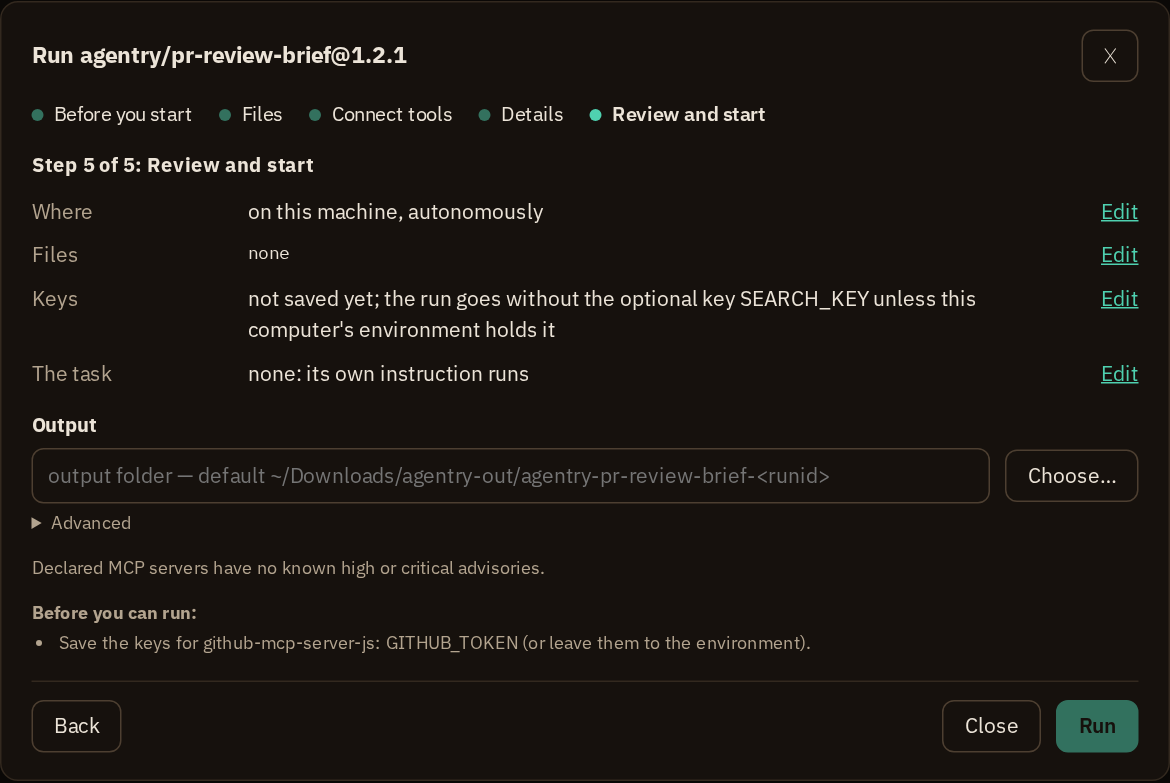
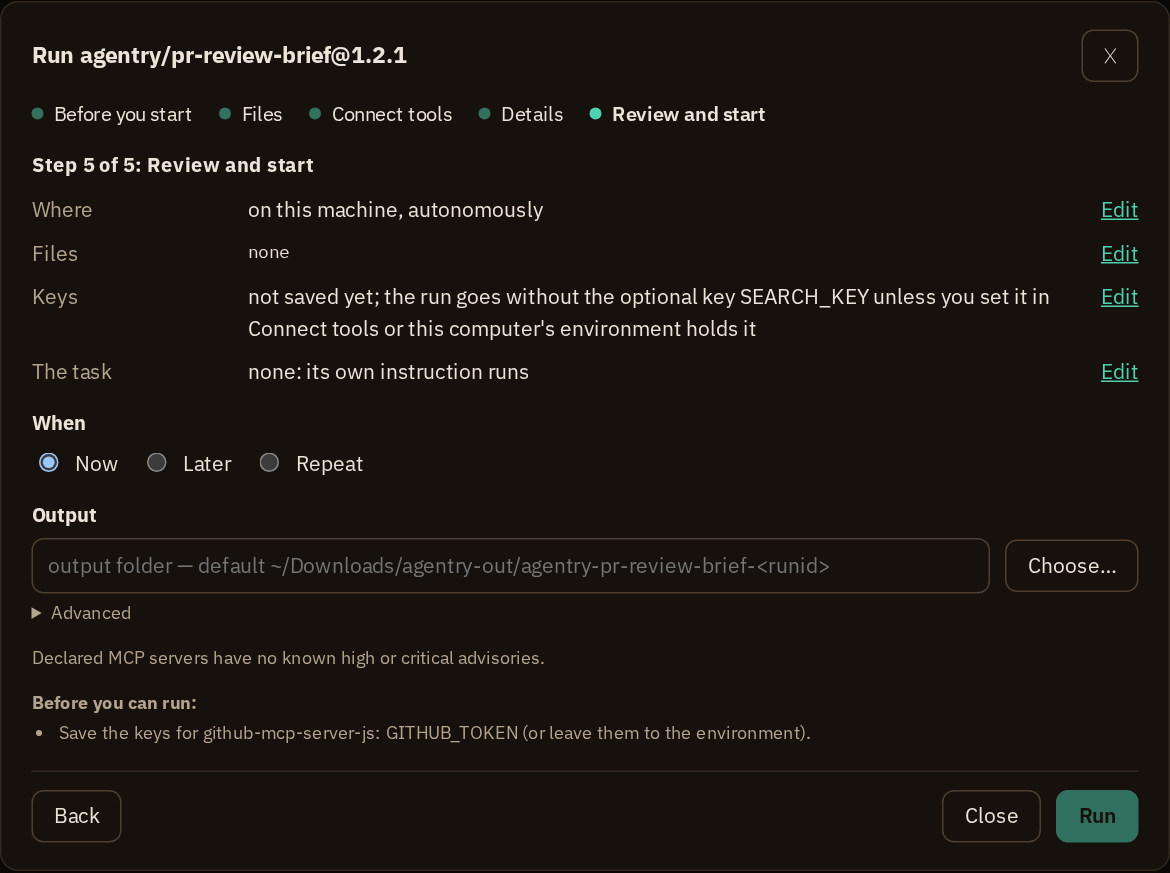
fix(run): offer the keys form for an optional key on this computer
A release run on this computer whose declared keys are all optional
showed an empty Keys section in Connect tools while no profile was saved:
the form opens by itself only for a required key, and Reconfigure… is
drawn only once a profile exists. The only way to give the run an
optional key was the environment.

Connect tools now offers Set keys… in that case (offerSetKeys), opening
the existing form: the key marked optional, a password field, the keep
toggle, stored in the release's profile (0700/0600) and removed when the
run completes unless kept, exactly as a required key is. The form gets
Cancel whenever nothing requires it, so an all-optional release is never
held by it. Review's sentence now says an optional key can be set in
Connect tools, not only taken from the environment. The Go side needed
no change: SaveProfile already stores any declared key and the run hands
every stored value to the engine.

Harness states runpanel-keys-optional and -saved show the offer and a
saved optional key.

Closes #784

diff --git a/frontend/src/pages/RunPanel.tsx b/frontend/src/pages/RunPanel.tsx
@@ -24,7 +24,7 @@ import * as ScheduleAPI from "../../wailsjs/go/main/ScheduleAPI";
 import { ChooseDirectory, ChooseFiles } from "../../wailsjs/go/main/App";
 import { knowledge, main, run, schedules, trust } from "../../wailsjs/go/models";
 import { Button, Card, DeclaredServersTable, ErrorBox, Notice, SignedBadge, Textarea, fmtBytes, shortDigest } from "../ui";
-import { STEP_LABEL, inAgentryByDefault, needList, setupSteps, vulnerableServerStep, whereFallback, type RunForm, type StepKey, requiredOf, goesWithoutSentence } from "../runSetup";
+import { STEP_LABEL, inAgentryByDefault, needList, setupSteps, vulnerableServerStep, whereFallback, type RunForm, type StepKey, requiredOf, goesWithoutSentence, offerSetKeys } from "../runSetup";
 import { followHostedChat, followHostedRunFound, startHostedRun, startLocalChat, startLocalRun, useChat, useHostedRun } from "../runs";
 import { HostedConnectAsk, HostedCredits, HostedSecretsAsk, HostedSecretsNote, HostedSignIns, HostedUnavailable, PublisherEarnsLine, SessionCredits, SessionUnavailable } from "./HostedRun";
 import { AgentMarkdown } from "../AgentMarkdown";
@@ -1212,6 +1212,19 @@ export default function RunPanel({
                       <Button onClick={() => { setFormOpen(true); setFormValues({}); }}>Reconfigure…</Button>
                     </div>
                   )}
+                  {/* Every key optional and none saved: the form does not open
+                      by itself, so it is offered, and an optional key is set
+                      here rather than only in the environment
+                      (agentry-desktop#784). */}
+                  {!formOpen && offerSetKeys(profile) && (
+                    <div className="row">
+                      <span className="muted small">
+                        No key saved for this release. The run can start without{" "}
+                        {profile.declaredSecrets.length === 1 ? "it" : "them"}, or set {profile.declaredSecrets.length === 1 ? "it" : "them"} now for this run.
+                      </span>
+                      <Button onClick={() => { setFormOpen(true); setFormValues({}); }}>Set keys…</Button>
+                    </div>
+                  )}
                   {formOpen && (
                     <Card>
                       <p className="muted small" style={{ marginTop: 0 }}>
@@ -1256,7 +1269,9 @@ export default function RunPanel({
                         </span>
                       </label>
                       <div className="row" style={{ justifyContent: "flex-end" }}>
-                        {profile.exists && <Button onClick={() => setFormOpen(false)} disabled={savingProfile}>Cancel</Button>}
+                        {(profile.exists || requiredNames.length === 0) && (
+                          <Button onClick={() => { setFormOpen(false); setFormValues({}); }} disabled={savingProfile}>Cancel</Button>
+                        )}
                         <Button variant="primary" onClick={saveProfile} disabled={savingProfile}>
                           {savingProfile ? "Saving…" : "Save keys"}
                         </Button>

diff --git a/frontend/harness/modals.tsx b/frontend/harness/modals.tsx
@@ -18,6 +18,11 @@
 //   #runpanel-keys         pr-review-brief's shape: keys unsaved, no intake —
 //                          the line above Run names the keys, Input files
 //                          collapsed (agentry-desktop#167)
+//   #runpanel-keys-optional  the same release with its one key optional and
+//                          nothing saved: Connect tools offers Set keys…, so
+//                          the key is set at run time and not only from the
+//                          environment (agentry-desktop#784); -saved clicks
+//                          it and saves
 //   #runpanel-file-intake  a release asking for a file up front
 //   #runpanel-unscanned    a release the registry admitted without a scan:
 //                          its own mark and consent, In Agentry not offered
@@ -163,7 +168,8 @@ const hostedState = view.startsWith("runpanel-") ? view.slice("runpanel-".length
 // release that asks for a file up front — the intake form shows and the
 // unanswered question is what the line names.
 const guidedShape = view.startsWith("runpanel-guided") || view === "toolspanel-hostile";
-const keysShape = view === "runpanel-keys" || view === "runpanel-keys-saved" || view === "runpanel-step-tools" || guidedShape;
+const optionalKeysShape = view.startsWith("runpanel-keys-optional");
+const keysShape = view === "runpanel-keys" || view === "runpanel-keys-saved" || view === "runpanel-step-tools" || guidedShape || optionalKeysShape;
 // A Gmail-reading release whose one server is Google's remote Gmail server,
 // signing in by OAuth with the person's own client (agentry-desktop#666).
 const signInShape = view.startsWith("runpanel-signin");
@@ -289,7 +295,7 @@ const profile = signInShape
   ? {
     ref: "agentry/pr-review-brief@1.2.1", digest: "sha256:4e6d650976b7a1b2",
     capabilityLines: ["network egress: none", "filesystem: read none, write none", "MCP: github-mcp-server-js (api.github.com; secrets: GITHUB_TOKEN)", "dataAccess: code"],
-    declaredSecrets: hostileGuide ? ["GITHUB_TOKEN", "constructor"] : ["GITHUB_TOKEN", "SEARCH_KEY"], storedSecretNames: [], exists: false, keep: true,
+    declaredSecrets: hostileGuide ? ["GITHUB_TOKEN", "constructor"] : optionalKeysShape ? ["SEARCH_KEY"] : ["GITHUB_TOKEN", "SEARCH_KEY"], storedSecretNames: [], exists: false, keep: true,
     // SEARCH_KEY is optional (agentry-desktop#655): marked so in the keys
     // form, and the line above Run names GITHUB_TOKEN alone.
     optionalSecrets: hostileGuide ? [] : ["SEARCH_KEY"],
@@ -449,6 +455,8 @@ const runOutputs = {
 const STEP_OF: Record<string, StepKey> = {
   "runpanel-keys": "review",
   "runpanel-keys-saved": "tools",
+  "runpanel-keys-optional": "tools",
+  "runpanel-keys-optional-saved": "tools",
   "runpanel-file-intake": "review",
   "runpanel-unscanned": "review",
   "runpanel-local-install": "review",

diff --git a/frontend/tests/requiredKeys.test.ts b/frontend/tests/requiredKeys.test.ts
@@ -3,7 +3,7 @@
 import { test } from "node:test";
 import assert from "node:assert/strict";
 import { declaredKeys, optionalKeys, questionRequired, requiredKeys, secretsRow } from "../src/requiredKeys.ts";
-import { goesWithoutSentence, needList, requiredOf } from "../src/runSetup.ts";
+import { goesWithoutSentence, needList, offerSetKeys, requiredOf } from "../src/runSetup.ts";
 
 const m = { secrets: ["API_TOKEN"], mcpServers: [{ secrets: ["SEARCH_KEY", "API_TOKEN"] }], requiredSecrets: [] as string[] };
 
@@ -36,11 +36,21 @@ test("RunPanel holds a run only for a required key, and says which optional ones
   const p = { declaredSecrets: ["OPT_KEY", "REQ_KEY"], optionalSecrets: ["OPT_KEY"], storedSecretNames: ["REQ_KEY"] };
   assert.deepEqual(requiredOf(p), ["REQ_KEY"]);
   assert.deepEqual(requiredOf({ declaredSecrets: ["A"] }), ["A"]);
-  assert.equal(goesWithoutSentence(p, false), "; the run goes without the optional key OPT_KEY unless this computer's environment holds it");
+  assert.equal(goesWithoutSentence(p, false), "; the run goes without the optional key OPT_KEY unless you set it in Connect tools or this computer's environment holds it");
   assert.equal(goesWithoutSentence({ ...p, storedSecretNames: ["REQ_KEY", "OPT_KEY"] }, false), "");
   assert.equal(goesWithoutSentence(p, true), "; the run goes without the optional key OPT_KEY unless your account keeps it");
   assert.equal(goesWithoutSentence({ optionalSecrets: ["A", "B"] }, true), "; the run goes without the optional keys A, B unless your account keeps them");
   assert.equal(goesWithoutSentence({ declaredSecrets: ["A"] }, true), "");
+});
+
+test("an optional key can be set at run time on this computer, not only from the environment (agentry-desktop#784)", () => {
+  // All optional, nothing saved: the form never opens by itself, so it is offered.
+  assert.equal(offerSetKeys({ declaredSecrets: ["OPT_KEY"], optionalSecrets: ["OPT_KEY"], exists: false }), true);
+  // A required key opens the form by itself; a saved profile offers Reconfigure…
+  assert.equal(offerSetKeys({ declaredSecrets: ["OPT_KEY", "REQ_KEY"], optionalSecrets: ["OPT_KEY"], exists: false }), false);
+  assert.equal(offerSetKeys({ declaredSecrets: ["OPT_KEY"], optionalSecrets: ["OPT_KEY"], exists: true }), false);
+  assert.equal(offerSetKeys({ declaredSecrets: [], optionalSecrets: [], exists: false }), false);
+  assert.equal(goesWithoutSentence({ optionalSecrets: ["A", "B"] }, false), "; the run goes without the optional keys A, B unless you set them in Connect tools or this computer's environment holds them");
 });
 
 test("the ready list says a run can start without an optional key", () => {

diff --git a/frontend/src/runSetup.ts b/frontend/src/runSetup.ts
@@ -196,9 +196,10 @@ export function requiredOf(p: { declaredSecrets: string[]; optionalSecrets?: str
 
 /**
  * What the review says of the optional keys a run may go without: on this
- * computer, each one the saved profile holds no value for, which the run
- * takes from the environment or starts without; In Agentry, each one, which
- * the run carries only where the account keeps it. "" when there are none.
+ * computer, each one the saved profile holds no value for, which can be set
+ * in Connect tools (agentry-desktop#784) and is otherwise taken from the
+ * environment or started without; In Agentry, each one, which the run
+ * carries only where the account keeps it. "" when there are none.
  */
 export function goesWithoutSentence(
   p: { optionalSecrets?: string[]; storedSecretNames?: string[] },
@@ -212,5 +213,16 @@ export function goesWithoutSentence(
   const it = keys.length === 1 ? "it" : "them";
   return inAgentry
     ? `; the run goes without ${which} unless your account keeps ${it}`
-    : `; the run goes without ${which} unless this computer's environment holds ${it}`;
+    : `; the run goes without ${which} unless you set ${it} in Connect tools or this computer's environment holds ${it}`;
+}
+
+/**
+ * Whether Connect tools offers the keys form on this computer while it is
+ * closed and no profile is saved (agentry-desktop#784): a release whose
+ * keys are all optional never opens it by itself, and without this offer an
+ * optional key could only come from the environment. A required key opens
+ * the form by itself; a saved profile offers Reconfigure… instead.
+ */
+export function offerSetKeys(p: { declaredSecrets: string[]; optionalSecrets?: string[]; exists: boolean }): boolean {
+  return !p.exists && p.declaredSecrets.length > 0 && requiredOf(p).length === 0;
 }

diff --git a/internal/run/run.go b/internal/run/run.go
@@ -188,7 +188,8 @@ type ProfileInfo struct {
 	Digest          string
 	DeclaredSecrets []string
 	// OptionalSecrets are those of DeclaredSecrets a run can start without
-	// (agentry-desktop#655): the keys form marks them, and leaves them empty.
+	// (agentry-desktop#655): the keys form marks them, and a value for one is
+	// set there or left empty (agentry-desktop#784).
 	OptionalSecrets   []string
 	Exists            bool
 	Keep              bool
